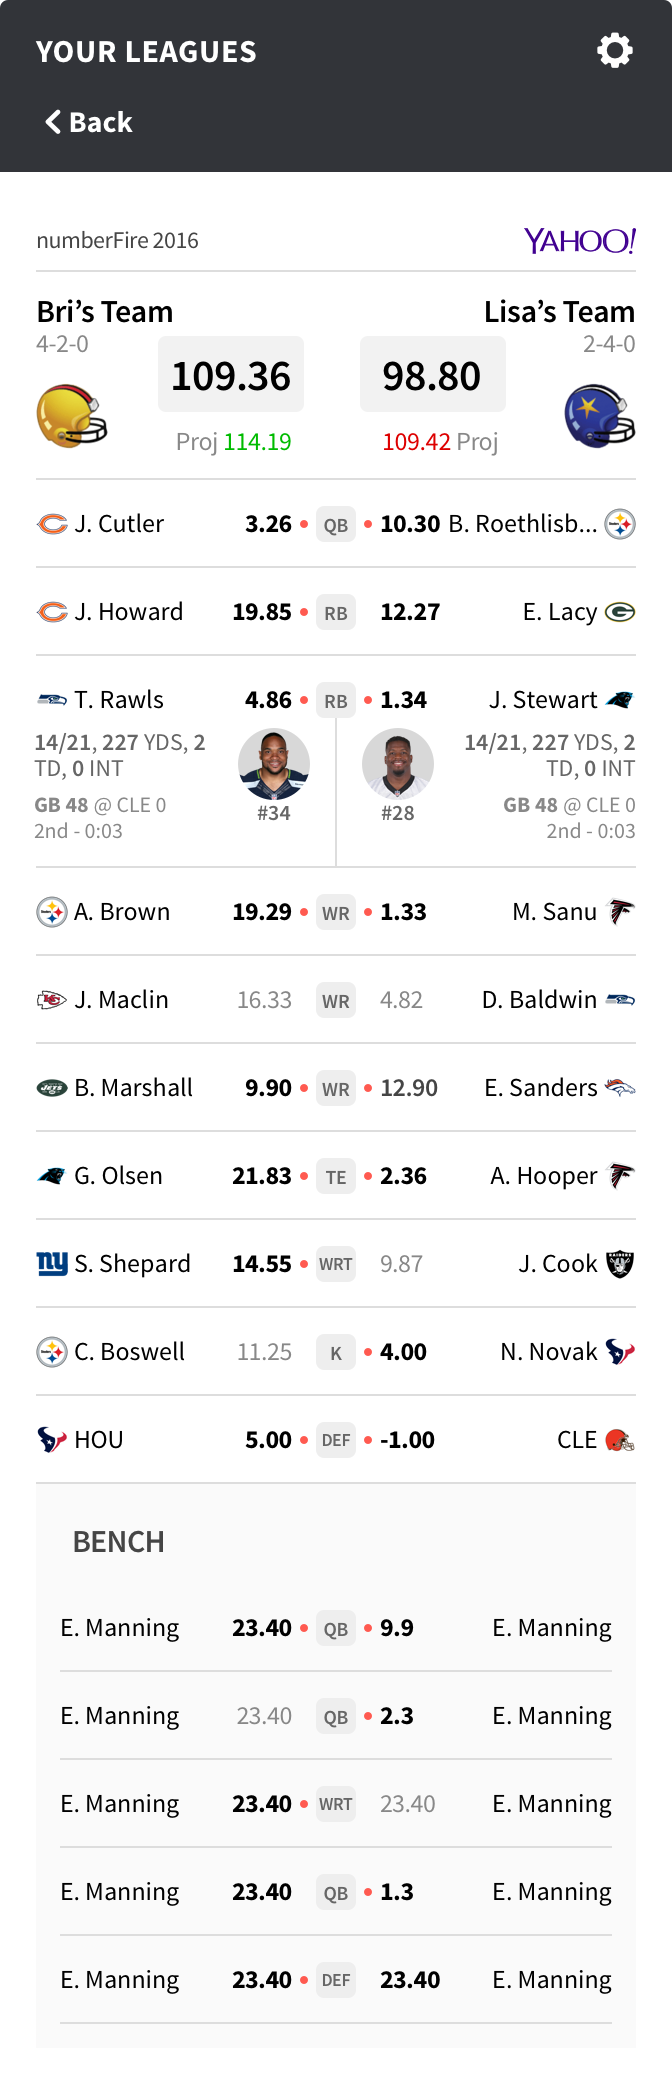
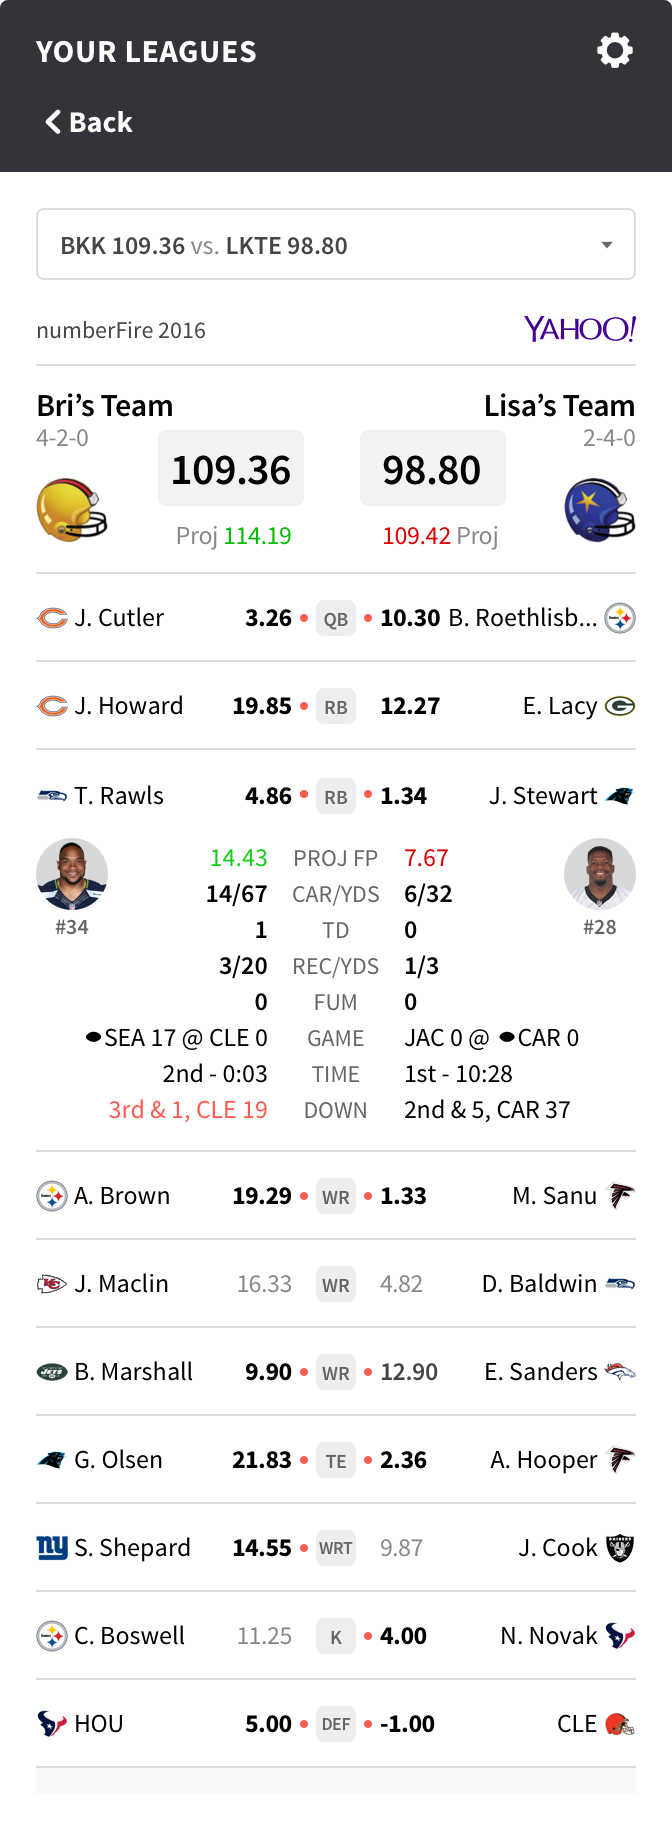
updated right

diff --git a/css/nf-fantasyLIVE.css b/css/nf-fantasyLIVE.css
@@ -168,7 +168,7 @@ section {
           width: 300px; }
         section.main .container .hotspots a.Right-SpecificTeamExpanded {
           left: 932px;
-          top: 328px;
+          top: 381px;
           height: 44px;
           width: 300px; }
         section.main .container .hotspots a.Right-BacktoLeagues {

diff --git a/scss/nf-fantasyLIVE.scss b/scss/nf-fantasyLIVE.scss
@@ -232,7 +232,7 @@ section {
                     }
                     &.Right-SpecificTeamExpanded {
                         left: 932px;
-                        top: 328px;
+                        top: 381px;
                         height: 44px;
                         width: 300px;
                     }
